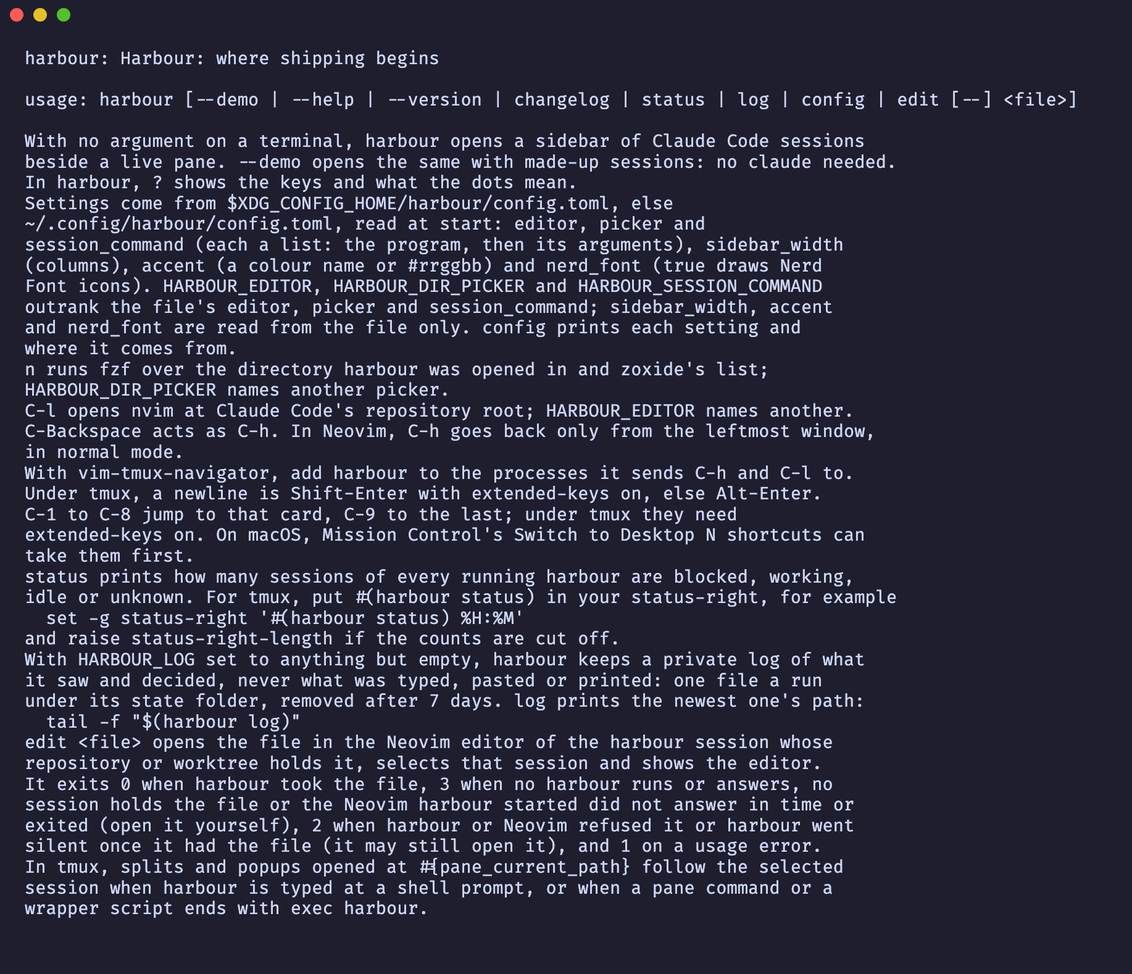
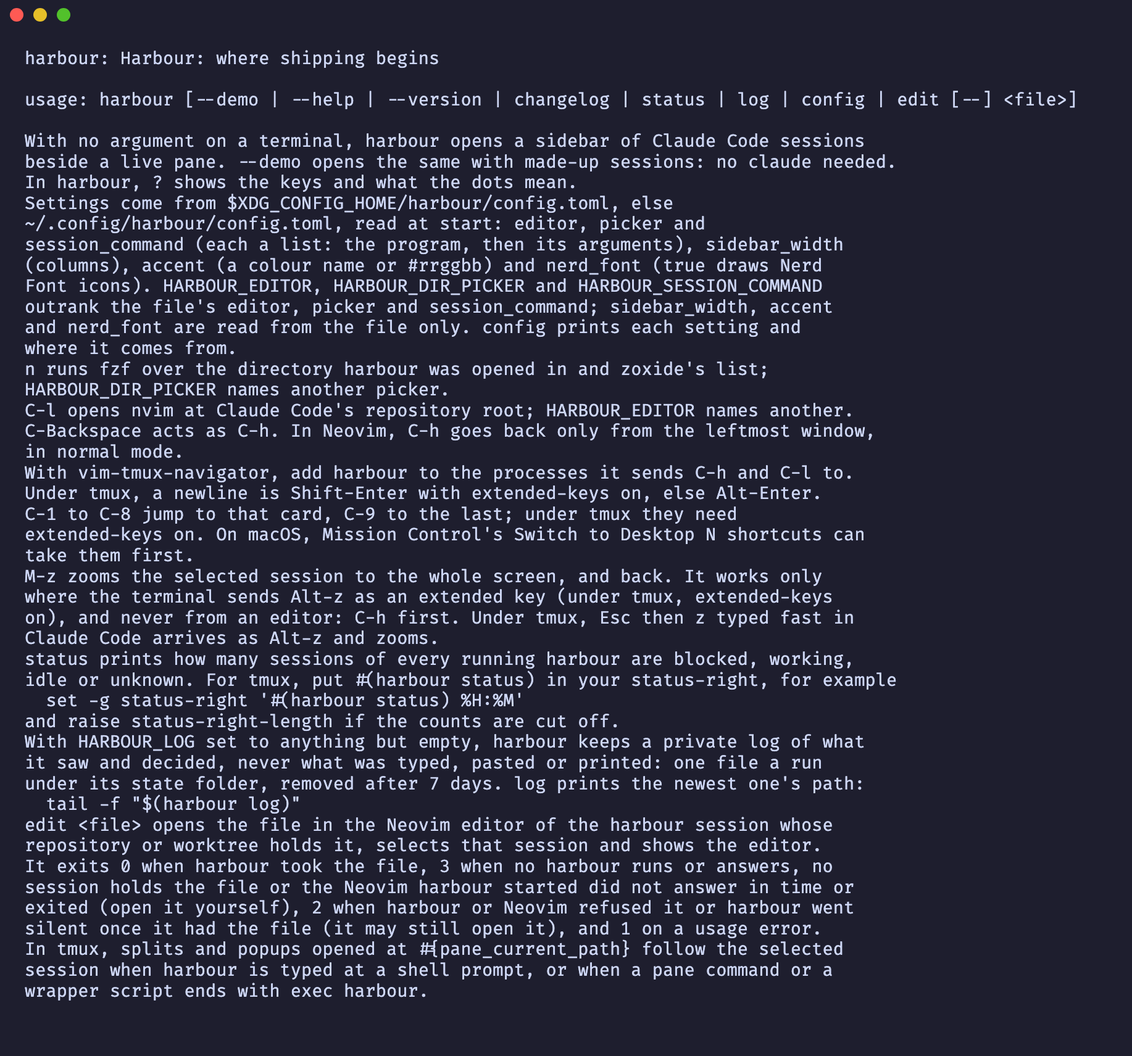
The help, the README, harbour --help, the zoom shot and the fragment for Alt-z

Changed region(s): [[0.0, 0.0311, 0.8391, 0.9626], [0.8702, 0.0932, 0.9324, 0.1242]]

diff --git a/tests/e2e/keys.rs b/tests/e2e/keys.rs
@@ -323,6 +323,52 @@ fn ctrl_m_ctrl_shift_h_and_ctrl_shift_l_act_as_enter_ctrl_h_and_ctrl_l_with_exte
     assert!(screen.contains("claude | raw-agent.sh: "), "{screen}");
 }
 
+#[test]
+#[ignore]
+fn alt_z_zooms_the_selected_session_with_extended_keys_on() {
+    let Some((_home, server)) = two_raw_agents("ext-xterm-zoom", "xterm") else {
+        return;
+    };
+
+    server.send_keys(&["M-z", "a"]);
+
+    let screen = server.wait_until("the zoomed pane", |screen| {
+        corners(screen) == 1 && screen.contains("read:a")
+    });
+    assert_eq!(corners(&screen), 1, "{screen}");
+    assert!(screen.contains("read:a"), "{screen}");
+}
+
+#[test]
+#[ignore]
+fn alt_z_zooms_the_selected_session_in_the_csi_u_form() {
+    let Some((_home, server)) = two_raw_agents("ext-csi-u-zoom", "csi-u") else {
+        return;
+    };
+
+    server.send_keys(&["M-z", "a"]);
+
+    let screen = server.wait_until("the zoomed pane", |screen| {
+        corners(screen) == 1 && screen.contains("read:a")
+    });
+    assert_eq!(corners(&screen), 1, "{screen}");
+    assert!(screen.contains("read:a"), "{screen}");
+}
+
+#[test]
+#[ignore]
+fn alt_z_reaches_the_session_as_escape_z_with_extended_keys_off() {
+    let Some((_home, server)) = focused_raw_agent("ext-off-alt-z", "off", "xterm") else {
+        return;
+    };
+
+    server.send_keys(&["M-z"]);
+
+    let screen = server.wait_for_screen("read:^z");
+    assert!(screen.contains("read:^z"), "{screen}");
+    assert_eq!(corners(&screen), 2, "{screen}");
+}
+
 fn two_raw_agents(name: &str, format: &str) -> Option<(TempDir, Server)> {
     let (home, server) = raw_harbour(name, "on", format, "")?;
     server.send_keys(&["n"]);
@@ -395,4 +441,14 @@ fn raw_harbour(name: &str, extended: &str, format: &str, asked: &str) -> Option<
     );
     server.wait_for_screen("press n to start one");
     Some((home, server))
+}
+
+fn corners(screen: &str) -> usize {
+    screen
+        .lines()
+        .next()
+        .unwrap_or_default()
+        .chars()
+        .filter(|c| matches!(c, '┌' | '┏'))
+        .count()
 }

diff --git a/tests/app/help.rs b/tests/app/help.rs
@@ -39,6 +39,19 @@ fn question_mark_shows_the_editor_keys() {
 }
 
 #[test]
+fn question_mark_shows_the_zoom_key() {
+    let mut screen = Screen::new(reading_agent());
+
+    screen.press('?');
+
+    let shown = screen.draw();
+    assert!(
+        shown.contains("M-z        zoom the session to the whole screen, or back"),
+        "{shown}"
+    );
+}
+
+#[test]
 fn question_mark_says_how_to_resume_and_forget_a_stopped_session() {
     let mut screen = Screen::new(reading_agent());
     screen.resize(80, 24);
@@ -107,13 +120,13 @@ fn the_whole_help_shows_on_a_20_row_terminal() {
 }
 
 #[test]
-fn the_help_leaves_four_rows_for_new_keys_on_a_20_row_terminal() {
+fn the_help_leaves_three_rows_for_new_keys_on_a_20_row_terminal() {
     let mut screen = Screen::new(reading_agent());
 
     screen.press('?');
 
     let shown = screen.draw();
-    assert_eq!(spare_rows(&shown), 4, "{shown}");
+    assert_eq!(spare_rows(&shown), 3, "{shown}");
 }
 
 #[test]

diff --git a/tests/cli.rs b/tests/cli.rs
@@ -368,6 +368,10 @@ Under tmux, a newline is Shift-Enter with extended-keys on, else Alt-Enter.
 C-1 to C-8 jump to that card, C-9 to the last; under tmux they need
 extended-keys on. On macOS, Mission Control's Switch to Desktop N shortcuts can
 take them first.
+M-z zooms the selected session to the whole screen, and back. It works only
+where the terminal sends Alt-z as an extended key (under tmux, extended-keys
+on), and never from an editor: C-h first. Under tmux, Esc then z typed fast in
+Claude Code arrives as Alt-z and zooms.
 status prints how many sessions of every running harbour are blocked, working,
 idle or unknown. For tmux, put #(harbour status) in your status-right, for example
   set -g status-right '#(harbour status) %H:%M'

diff --git a/src/main.rs b/src/main.rs
@@ -30,6 +30,10 @@ Under tmux, a newline is Shift-Enter with extended-keys on, else Alt-Enter.
 C-1 to C-8 jump to that card, C-9 to the last; under tmux they need
 extended-keys on. On macOS, Mission Control's Switch to Desktop N shortcuts can
 take them first.
+M-z zooms the selected session to the whole screen, and back. It works only
+where the terminal sends Alt-z as an extended key (under tmux, extended-keys
+on), and never from an editor: C-h first. Under tmux, Esc then z typed fast in
+Claude Code arrives as Alt-z and zooms.
 status prints how many sessions of every running harbour are blocked, working,
 idle or unknown. For tmux, put #(harbour status) in your status-right, for example
   set -g status-right '#(harbour status) %H:%M'

diff --git a/src/help.rs b/src/help.rs
@@ -7,13 +7,14 @@ pub const KEYS: &[(&str, &str)] = &[
     ),
     ("C-h", "focus the sidebar; from an editor, Claude Code"),
     ("C-1..C-9", "focus or resume that card; C-9 the last"),
+    ("M-z", "zoom the session to the whole screen, or back"),
     ("e", "show the session's next editor, one per directory"),
     (
         "x",
         "end the session and its editors, or forget it once it has ended",
     ),
     ("?", "show or hide the help"),
-    ("q", "quit, after a yes while a session or editor runs"),
+    ("q", "quit, after a yes while anything runs"),
 ];
 
 pub const REST: &str = "harbour --help has the rest.";

diff --git a/AGENTS.md b/AGENTS.md
@@ -55,13 +55,15 @@ src/app/draw.rs               what the app draws, after settling exited editors 
 src/app/handoff.rs            which session holds a file `harbour edit` names (a path inside a session's `root`, resolved through symlinks, never a stopped card's; the deepest root first, then the selected session, then the one the user last acted on: keys, paste or mouse sent to it, C-l, its start) and opening it: that session selected and its editor shown with the file, as C-l would show it; where each session works read again before an open, and that same root used for it; `none` to an ask and a refusal to an open while a question or the picker waits, `none` to an ask and a refusal to an open for an editor that is not Neovim, busy past the deadline, and when Neovim cannot start or take the file, a refusal leaving the screen as it was; a Neovim it started that stays silent until the deadline closed and the request untaken, and one that exits untaken at once
 src/app/logging.rs            what the app writes to the log: start and quit, a bound key by name (a key or paste forwarded only as `input to=<where> bytes=<n>`, the bytes sent, never its text; an unbound key the sidebar does not forward as `key name=other`), focus, selection, refusals, each session's and editor's start and exit, every `harbour edit` request and Neovim call, a frame of 100 ms or more, and the panics a session contained; nothing when the log is off
 src/app/jump.rs               `jump`: Ctrl-1 to Ctrl-8 select the card at that position and Ctrl-9 the last, from the sidebar or a pane (a session never gets them), then focus its pane or resume it as Enter does; nothing beyond the last card, nothing while a question, the help view or the picker is shown; they arrive only as extended keys, so a terminal without them sends what it sent before
+src/app/zoom.rs               zoom: Alt-z, only in an extended form and never from an editor (a legacy `ESC z` or an editor's Alt-z goes on to the session), from the sidebar or Claude Code on a running session shows its pane alone and focuses it, and again brings the sidebar back; each frame drops it once the pane loses focus or the session ends; the zoomed border: the session's headline (`src/zoom.rs`), the names, the counts at the right
 src/app/remember.rs           what the app does with remembered sessions: recalls them once as stopped cards, at most 100 by position, from one listing of every projects folder (a card whose transcript is gone is left out, its file forgotten once it is 30 days old), says on line 2 and in the pane why one cannot resume (`directory gone`, `open elsewhere` while a live pid's registry file or another harbour's reservation names its id), resumes one with `<command> --resume <id>` in its directory after checking both again and reserving the id for as long as it runs, keeps each session's id, directory, title and position once its transcript exists (again when its file went missing, once more when it exits and at quit), merges a stopped card into the session that resumed its conversation, forgets on `x` (never a file a session open elsewhere owns), clears its `gone` and `open elsewhere` messages on a new selection, the next attempt or once the card can resume, and adds `Conversations come back stopped.` to the quit question
-src/app/split.rs              how the sidebar and the pane share the terminal: two columns, from 60 columns, the sidebar a third or the configured width cut to half, the pane the rest; below that one side at a time, the pane while it has focus, else the sidebar
+src/app/split.rs              how the sidebar and the pane share the terminal: two columns, from 60 columns, the sidebar a third or the configured width cut to half, the pane the rest; below that one side at a time, the pane while it has focus, else the sidebar; zoomed, the pane alone
 src/handoff.rs                `harbour edit <file>` and its listener: the file made absolute (its folder resolved when the file does not exist yet, a dangling symlink followed to where it points, 4096 bytes at most), every harbour asked over a socket in a private (0700) `$XDG_STATE_HOME/harbour/edit/`, else `~/.local/state/harbour/edit/`, which of its sessions holds it, how deep its root lies, whether it is selected and when it was last used, and the first by that order told to open it; the listener binds `<pid>-<n>.sock` (0600), removes it when dropped, binds again within 5 s when it is gone, removes the sockets no process listens on, and, on a thread of its own that sleeps in `poll` until a connection, its check or harbour's exit wakes it, accepts, checks the peer and reads each request on a thread of its own (at most 16 in flight, the rest closed at once), keeping only a request from its own user that arrives within 100 ms and has not expired; it resolves the path again itself, answers `none` or a refusal when it does not resolve, and hands the app the rest over a channel with a deadline of its expiry, 5 s at most
 src/memory.rs                 the remembered sessions on disk: one `<sessionId>.json` per conversation under `$XDG_STATE_HOME/harbour/sessions/<configuration>/`, else `~/.local/state/harbour/sessions/<configuration>/`, one folder per Claude Code configuration (a stable hash of its resolved `projects/` path, symlinks followed), so a harbour never shows, resumes or prunes another configuration's conversations (0700 folder, 0600 files, written through a staged file and a rename, a staged file older than a minute swept); the directory stored as text, or as its bytes when it is not UTF-8; no file names another, so none deletes another; read leniently: a regular file only, never through a symlink, at most 64 KiB, `version` 1, an id of Claude Code's shape (a lowercase 8-4-4-4-12 hex UUID, so `--resume <id>` never reads it as an option) matching its name, an absolute directory, anything else skipped and left on disk, a file from a newer version never overwritten or removed; `reserve`: a private `<id>.<unique>.lock` held with a non-blocking lock by every running session with a remembered id (taken when the id is first known, the new one taken before the old one is released when it changes, tried again at each read while held elsewhere) and kept only while that file is still at its path, retried once when held, dead ones swept
 src/follow.rs                 where harbour works, so tmux's `#{pane_current_path}` follows the selected session: the `root` of the editor for its last seen directory, or where harbour was opened with no session or when that directory is gone or cannot be entered; checked at a frame when the selection or the directory changed, else every half second, and moved to only when it differs by path or by device and inode (a directory replaced in place is entered again); `temporary`, the temporary directory made absolute at start
 src/editor.rs                 an editor beside a session's Claude Code pane: the program it runs and the directory it belongs to, started with harbour's `TMUX` and `TMUX_PANE`, so a tmux command it runs targets harbour's pane, `root` (the repository root `repo::root` finds, the card's own walk, never walked up from a directory that is gone); Neovim listens on a socket in a private (0700) temporary directory removed with the editor, under `/tmp` when the temporary directory would make the socket path too long for macOS (103 bytes), and without one when that directory cannot be made, and says through it whether it has unsaved changes (`changes`: saved, unsaved, or unknown when it cannot be asked; a modified buffer counts when its `buftype` is empty or `acwrite`, a file the user would lose, never a terminal, prompt, `nofile` or `nowrite` buffer), and whether C-h stays in it (`wants_ctrl_h`: anything but mode `n` or `nt` with `blocking` false in the leftmost window); a session's editors end with it
 src/nvim.rs                   `mode`, `eval` and `edit`: one msgpack-RPC `nvim_get_mode`, `nvim_eval` or `nvim_cmd` (`edit` with the path as bytes and `magic` off, so `%`, `#`, `|` and spaces stay in the name) over that socket, the connect, the write and the read all bounded by one deadline, the reply matched by its request id (a notification before it is skipped, at most 1 MiB read), `None` for no answer before the deadline
+src/zoom.rs                   `info`, a pure function: the zoomed border's headline, the dot, title, `repository · branch` and time, fitted to a room (the place cut first, then the title; the time kept while the title has a column; the dot alone at 3 columns, nothing under)
 src/tabs.rs                   `strip`, a pure function: the pane border's `claude | <editor>: <directory>`, fitted by display width (the directory loses its start first, then the editor's name; nothing shows once not one column of the editor's name fits); `iconed`, the same with `nerd_font` on: the glyph of `src/icons.rs` and a space before `claude`, and before the editor's name when it is Neovim, the directory going first, then both glyphs together, then the rest as `strip` fits it, so a glyph never shows without its whole name
 src/icons.rs                  the Nerd Font glyphs harbour draws with `nerd_font` on: `md-creation` (U+F0674) for Claude Code, `custom-neovim` (U+E6AE) for Neovim, `oct-repo` (U+F401), `oct-git_branch` (U+F418), `oct-git_pull_request` (U+F407) and `cod-sparkle` (U+EC10) for a card's repository, branch, pull request and subagents, each one column wide
 src/session.rs                a session: a command in a PTY, refused as `Not a directory: <path>` when its directory is not one, started without `TMUX` and `TMUX_PANE` (a Claude Code session and the picker belong to no tmux pane) unless started as an editor, its output parsed into a screen that renders as a widget painting no cursor of its own, its terminal queries answered, what an editor's or the picker's program asked for in keys (`keyboard`, its kitty query answered; a Claude Code session's requests ignored and its kitty query left unanswered, so it always gets the legacy keys; forgotten at a terminal reset, `ESC c`, and when the program exits), the cursor shape its program last asked for (`ESC [ <n> SP q`, 0 to 6, a larger value ignored) and where its cursor lies in the area it is drawn in (none when hidden or outside it, a cursor waiting after the last column on that column), its exit status, its screen never under 2 rows or 2 columns (vt100 panics below that); every call into vt100 contained, so a panic gives that session a fresh screen with the modes, the keys and the cursor shape its program had turned on and a repaint instead of taking harbour down, and the panic hook stays silent for it; writes go through a writer thread so a child that does not read never blocks the interface; ending it (or dropping it) hangs up its whole process group, then kills it, only while the child is unreaped; quitting hangs up every session first and waits once
@@ -73,11 +75,11 @@ src/transcript.rs             a session's transcript (`<CLAUDE_CONFIG_DIR or ~/.
 src/card.rs                   a session's card in the sidebar: three lines cut by `src/text.rs`, line 3 with `with_icons` (`nerd_font` on) a glyph and a space before each fact in place of the dots and the word `subagents`, and the Neovim glyph and a space last while the session has an editor open and the editor is Neovim (neither the subagents nor the editor on an ended card), cut from its end as without icons, a glyph that would keep no column of its text going too, line 2 the last prompt dimmed while working or idle (empty on the selected card), else what it waits for, `exited` or why it cannot resume, on every card; the time in its state at the right of line 1 (`<1m`, `3m`, `2h`, `4d`; for an exited session, since harbour saw the exit; none without a time), kept while the title has a column; the accent's bar (cyan by default, left out with no inner column) and bold down the selected card, a blank line between cards, the scroll that keeps the selected card whole and moves only when it would leave the view
 src/text.rs                   every cut of text harbour draws: measured in the cells ratatui fills for each grapheme (an emoji with a variation selector, a joined sequence or a flag counts whole, a halfwidth sound mark too), cut with `…` or wrapped by those columns (between words where a word fits), never wider than the room given; cleaned of control characters, bidi marks, U+061C, U+200B and a joiner that joins nothing, folded to one line and kept to 512 characters
 src/summary.rs                the counts a running harbour publishes for `harbour status` (one publication under a name of its own, pid, time and counter: `<name>.counts` beside a `<name>.lock` it holds, under `$XDG_STATE_HOME/harbour/status/`, else `~/.local/state/harbour/status/`, nowhere when neither is absolute, private, removed on quit, never waiting for a lock; a failed write or a missing file drops the whole publication, and a fresh one is made at most every `RETRY`, 5 s; making one removes every dead publication, a regular `<digits>-<digits>-<digits>.lock` other than its own that it can open for writing and no one holds, with its `.counts` and `.tmp`) and the reader that adds up the regular `.counts` files of that naming whose lock is still held, never following a symlink
-src/help.rs                   what the help view shows besides the legend: `KEYS`, which the README key table mirrors, and `REST`, its last line, pointing to `harbour --help`, which carries the notes (`HARBOUR_DIR_PICKER`, `HARBOUR_EDITOR`, C-Backspace arriving as C-h and Neovim's C-h rule, the tmux pattern, the newline under tmux, `HARBOUR_LOG`)
+src/help.rs                   what the help view shows besides the legend: `KEYS`, which the README key table mirrors, and `REST`, its last line, pointing to `harbour --help`, which carries the notes (`HARBOUR_DIR_PICKER`, `HARBOUR_EDITOR`, C-Backspace arriving as C-h and Neovim's C-h rule, the tmux pattern, the newline under tmux, Alt-z's rule, `HARBOUR_LOG`)
 src/log.rs                    the log `HARBOUR_LOG` (anything but empty) turns on: one `<pid>.log` a run (0600) in a private (0700) `$XDG_STATE_HOME/harbour/log/`, else `~/.local/state/harbour/log/`, none when neither is absolute; each line stamped in UTC to the millisecond, built only when the log is on, and handed to a thread of its own over a queue of 4096 that drops what does not fit, so a stalled disk never delays a key or a frame, and `finish`, at quit, waits up to 500 ms for what is queued; never through a symlink, at the file or the folder; at start, removes the `<digits>.log` regular files older than 7 days whose pid is not alive; `newest`, what `harbour log` prints
 src/cursor.rs                 `Shape`: the cursor shape last sent to the terminal, starting at the default (0) and shared by its clones (the panic hook holds one), `ESC [ <n> SP q` written only when the shape asked for differs, and `ESC [ 0 SP q` on leaving only when the last one sent was not the default, the default then recorded as sent
 src/keys.rs                   the bytes a terminal sends for a key, which a session receives: the legacy encoding, and `encode_as`, the form a program asked for: xterm's `modifyOtherKeys` level 1 (a Ctrl key with a control byte as that byte, Alt alone and unmodified keys legacy, every other modified key as `ESC [ 27 ; mod ; code ~`) or level 2 (every modified key in that form), both with F13 to F24 as Shift-F1 to F12 and F25 to F35 unmodified as Ctrl-F1 to F11, or kitty's disambiguation (Esc and every Ctrl or Alt key as `ESC [ code ; mod u`, a modified Enter, Tab or Backspace too, F3 as `ESC [ 13 ~`, F13 to F35 from 57376); `Asked`, what a program asked for: the `modifyOtherKeys` level (off again at `ESC [ > 4 n`) and the kitty flags (disambiguation only) with their push, pop (16 deep), set and query, answered with the flags held, the kitty form winning while its flag is set
-src/input.rs                  what harbour reads from its terminal: the keys, pastes and mouse reports crossterm reads, read the same way, plus the xterm form of a modified key (`ESC [ 27 ; mod ; code ~`) beside the csi-u form; the bytes 0x1c to 0x1f read as Ctrl with `\`, `]`, `^` and `_`; 1 KiB a read, waiting at most the timeout it is given, then reading on without waiting while a read came back full or a sequence is unfinished, so a large paste is one call; outside a paste, a pending sequence is dropped when a new ESC arrives or once it holds 64 bytes, and a private-mode reply (`ESC [ ?`) ends at its final byte
+src/input.rs                  what harbour reads from its terminal: the keys, pastes and mouse reports crossterm reads, read the same way, plus the xterm form of a modified key (`ESC [ 27 ; mod ; code ~`) beside the csi-u form; the bytes 0x1c to 0x1f read as Ctrl with `\`, `]`, `^` and `_`; 1 KiB a read, waiting at most the timeout it is given, then reading on without waiting while a read came back full or a sequence is unfinished, so a large paste is one call; outside a paste, a pending sequence is dropped when a new ESC arrives or once it holds 64 bytes, and a private-mode reply (`ESC [ ?`) ends at its final byte; a key read after an ESC prefix carries `ESCAPED` in its state, the extended forms do not
 src/mouse.rs                  `route`, a pure function: a gesture belongs to where its button went down and to the session shown then, and ends when another session is shown, and the selected session gets only what its mouse mode asked for (`?9` presses, `?1000` presses, releases and the wheel, `?1002` drags too, `?1003` moves too), with Shift, Alt and Ctrl, in its encoding (SGR, UTF-8 or the legacy bytes), clamped to the pane; an empty pane forwards nothing and ends the gesture
 src/changelog.rs              the bundled CHANGELOG.md and the rules a release entry must meet
 CHANGELOG.md                  only its `# Changelog` heading on `main`; each release commit writes its sections
@@ -109,7 +111,7 @@ scripts/homebrew-formula.sh   prints the tap formula for a released version
 scripts/formula-version.sh    the `tap` job's decision; never a version below the formula's
 scripts/stable-version.sh     the `stable-build` and `stable` jobs' decision, asked by both: the release the `stable` branch moves to, never below the version it holds
 scripts/sweep-report.sh       `[<first phase>]`: the sweep's data from `plans/`, as Markdown; counts and groups, judges nothing
-scripts/screenshots.sh        renders docs/details.png from `harbour --demo` and docs/help.png from `harbour --help`, plus one `shoot` per extra view (keys, pane, question, quit, ended (the demo with its blocked session ended, a count gone from the title), editor, narrow, picker, accent (the interface without `--demo`, through a config file written into the scratch `HOME` and removed after it), icons (the same with `nerd_font = true` and an editor script named `nvim`, its session a script that writes a registry file and a transcript naming a pull request and two running subagents in a scratch repository on a branch, the border's and the card's glyphs shown); truecolor.py converts ANSI)
+scripts/screenshots.sh        renders docs/details.png from `harbour --demo` and docs/help.png from `harbour --help`, plus one `shoot` per extra view (keys, pane, question, quit, ended (the demo with its blocked session ended, a count gone from the title), editor, narrow, zoom (the demo after M-z, with tmux's `extended-keys` on for that shot alone), picker, accent (the interface without `--demo`, through a config file written into the scratch `HOME` and removed after it), icons (the same with `nerd_font = true` and an editor script named `nvim`, its session a script that writes a registry file and a transcript naming a pull request and two running subagents in a scratch repository on a branch, the border's and the card's glyphs shown); truecolor.py converts ANSI)
 scripts/sweep-issue.sh        the `issue` job of `sweep.yml`: opens "Sweep due before phase N" with the report once the next phase is a multiple of 5, never twice
 docs/                         the screenshots `scripts/screenshots.sh` writes (see "Documentation rule")
 changes/                      one fragment per pull request that feeds the binary (`kind:` and the changelog bullets); add-only, see Releasing
@@ -123,6 +125,7 @@ tests/           outside-in: `tests/cli.rs` runs the real binary;
                  `tests/session/` (`keyboard.rs` what a program asked for in keys) and `tests/app/` run sessions in process, as `/bin/sh -c` scripts;
                  `tests/edit.rs` runs `harbour edit` against listeners of `tests/handoff.rs`'s kind, which a test answers itself; `tests/app/handoff.rs` hands the app requests and stands in a socket for Neovim; `tests/app/nearest.rs` covers which holder gets the file and what moves its last use; `tests/e2e/edit.rs` runs `harbour edit` against harbour, and `tests/e2e/neovim.rs` holds four smoke tests against a real clean Neovim; `tests/app/real_neovim.rs` runs that Neovim's TUI in a harbour session and checks `mode`, `eval`, `edit`, `changes`, `wants_ctrl_h` and `open` against it; `tests/idle.rs` (Linux only) counts the listener thread's wake-ups while idle;
                  `tests/app/jumping.rs` covers Ctrl-1 to Ctrl-9 in process, `tests/e2e/keys.rs` what tmux sends for them with extended keys on and off;
+                 `tests/app/zoom.rs` covers Alt-z in process, `tests/app/zoom_border.rs` the zoomed border, `tests/zoom.rs` the table of how its headline fits a room;
                  `tests/app/moving.rs` hands the app a recording move, never the real one; `tests/e2e/moving.rs` reads `#{pane_current_path}` of a harbour started with `Server::exec`;
                  `tests/tabs.rs` is the table of how the pane border's names fit a width, with and without icons;
                  `tests/text.rs` covers measuring, cutting, wrapping and cleaning text, `tests/card.rs` a card's lines, `tests/repo.rs` reading a repository and branch from scratch `.git` layouts, `tests/transcript.rs` reading a transcript, `tests/memory/` every file state of the remembered sessions (`reserving.rs` the locks and the sweep, `places.rs` the directory bytes and the configurations);

diff --git a/plans/phase-25-zoom.md b/plans/phase-25-zoom.md
@@ -3,7 +3,7 @@
 Issue #36. Alt-z hides the sidebar and gives the selected session the whole screen; the pane's
 top border then carries what the sidebar showed about it (its dot, title, `repository · branch`
 and time) and the counts. Phase 25 is a multiple of 5, so it opens with the sweep of phases 20
-to 23 (`### Sweep` under `## Outcome`).
+to 24 (`### Sweep` under `## Outcome`).
 
 ## Verified facts
 
@@ -68,8 +68,8 @@ to 23 (`### Sweep` under `## Outcome`).
   - left: the dot, the title, `repository · branch` and the time in its state, then the names
     (`claude | <editor>: <directory>`, with icons under `nerd_font`) as today;
   - right: the counts, by the sidebar title's rule (`state::title`, counts above zero);
-  - fitted by priority: the counts first, then the names (by the rules of `src/tabs.rs`), then
-    the session info in what is left: the time stays while the title has a column, as on the
+  - fitted by priority: the counts first, then the names (by the rules of `src/tabs.rs`) in
+    what the counts leave, then the session info in what the names leave: the time stays while the title has a column, as on the
     card; the title and place are cut by `text::fit`; the dot alone needs 3 columns
     (` ● `), under that the info goes.
 - The help gets one row (`M-z`), the README key table with it, and the headroom test drops to 3.
@@ -81,8 +81,8 @@ to 23 (`### Sweep` under `## Outcome`).
 | State | What shows |
 | --- | --- |
 | Zoomed, a session running | the pane alone on the whole screen, its top border: dot, title, `repository · branch`, time, the names, the counts at the right |
-| Zoomed, terminal too narrow for the whole border | the counts stay; the session info is cut first (title, then place, the time while the title keeps a column), then the names by `tabs.rs`'s rules |
-| Zoomed, the narrowest width the border still fits | measured in the tests: the counts and the dot with one column of title; under that the info goes, then the names |
+| Zoomed, terminal too narrow for the whole border | the counts stay; the session info is cut first (the place is cut, then dropped, then the title is cut, the time kept while the title keeps a column), then the names by `tabs.rs`'s rules |
+| Zoomed, the narrowest width the border still fits | 11 columns: `┏ ● …  ●1 ┓`, the short counts and the dot with one column of title; under that the info goes, then the names |
 | Zoomed, a CJK title and branch | cut by display width (`text::fit`), never a half character, never wider than the border |
 | Zoomed, terminal under 60 columns | today's narrow mode with the pane shown, plus the zoomed border |
 | Alt-z with no session or on a stopped card | nothing happens |
@@ -128,19 +128,21 @@ keys sends the legacy form, so Alt-z goes to the session; nothing else is read.
 
 ### Sweep
 
-Range: phases 20 to 23. `scripts/sweep-report.sh` starts after phase 20, the last `### Sweep`,
-so it reports phases 21 to 23; phase 20's own `## Outcome` and `## Hurdles` were read by hand.
-All four are on `main`; phase 24 was still being built. The report counted 9 hurdles for phases
-21 to 23 (`test-seam` 5, `api-shape`, `design`, `process` and `review-loop` 1 each) and phase
-20 added 1 (`test-seam`); 4 of the 10 went `→ none`. Ready, merged and released of phase 22
-were read from GitHub (phase 23's were already written). The owner decided in advance that every
+Range: phases 20 to 24. `scripts/sweep-report.sh` starts after phase 20, the last `### Sweep`,
+so it reports phases 21 to 24; phase 20's own `## Outcome` and `## Hurdles` were read by hand.
+Phase 24 merged while this phase was being built and was taken in with a merge of `main`. The
+report counted 9 hurdles for phases 21 to 23 (`test-seam` 5, `api-shape`, `design`, `process`
+and `review-loop` 1 each), phase 24 added 3 (`test-seam`, `process`, `review-loop`) and phase
+20 added 1 (`test-seam`); 6 of the 13 went `→ none`. Ready, merged and released of phase 24
+were read from GitHub (phase 22's were written by phase 24). The owner decided in advance that every
 finding becomes a proposed issue or is declined, no rule and no backlog line is applied, and
 nobody is asked; the orchestrator files the issues.
 
-- A test that passed before the change existed, in all four phases: phase 20's three cursor
+- A test that passed before the change existed, in all five phases: phase 20's three cursor
   tests passed whatever their rule did (the sidebar already hid the cursor), phase 21's width
   test asked for a third, the default, phase 22's out-of-range key drew nothing either way, phase
-  23's off path did not change. Each is a test of an absence or of a default; two were caught by
+  23's off path did not change, phase 24's cut, CJK and ended-card tests passed against the finished join, and this phase's
+  leaving-zoom and `ESC z` tests were green first too. Each is a test of an absence or of a default; two were caught by
   review, not by the red run → proposed issue.
 - A helper shipped before its first caller and stopped by the dead-code gate: phase 23 (`→ none`)
   and, in the last range, phases 17 and 19. Twice `→ none` across two sweeps → proposed issue.
@@ -156,15 +158,44 @@ nobody is asked; the orchestrator files the issues.
   wait every other test already makes; load-sensitive tests are #87.
 - Phase 21's tmux colour form (`38;5;N`) → declined: a fact of tmux's capture, fixed where it
   arose.
+- Phase 24's edit of `scripts/screenshots.sh` while a ship ran, which `git add -A` would have
+  taken into that commit (`→ none`, once) → declined: one-off, kept out by hand that time.
+- Phase 24's cut that measured a part's first grapheme apart from the joined line, found in
+  review → declined: one-off, fixed in code in that round.
 
-Metrics (from `plans/metrics.md`): review rounds 1, 2, 2, 1 for phases 20 to 23; start to
-release 30 min 47 s, 1 h 29 min 41 s, 1 h 34 min 18 s and 42 min 7 s. The Claude reviewer per
-round runs from 103532 to 169182: phase 21's two rounds (157086, 169182) sit above the last
-sweep's top of 149335, phases 22 and 23 are back at 115281 to 124912; one phase, no trend.
-Builder notices: 1, 2, 2 and 1 per phase, each between 90614 and 164528, the last ship of each
-unknown. The orchestrator's context grew from 521726 (phase 20's start) to 633470 (phase 23's
-end), in one session shared by every phase of the range and a fix branch, so no two rows
-compare. Process drift: none beyond the missing sweep issue; every phase had a worktree, a
+Metrics (from `plans/metrics.md`): review rounds 1, 2, 2, 1, 1 for phases 20 to 24; start to
+release 30 min 47 s, 1 h 29 min 41 s, 1 h 34 min 18 s, 42 min 7 s and 47 min 41 s. The Claude
+reviewer per round runs from 103532 to 169182: phase 21's two rounds (157086, 169182) sit above
+the last sweep's top of 149335, phases 22 to 24 are back at 115281 to 124912; one phase, no
+trend. Builder notices: 1, 2, 2, 1 and 1 per phase, each between 90614 and 164528, the last ship
+of each unknown. The orchestrator's context grew from 521726 (phase 20's start) to 670656
+(phase 24's end), in one session shared by every phase of the range and a fix branch, so no two
+rows compare. Process drift: none beyond the missing sweep issue; every phase had a worktree, a
 review and a metrics row.
 
+### Facts and decisions
+
+- Alt-z reaches harbour as `CSI 27;3;122~` (tmux `extended-keys on`, format xterm) or
+  `CSI 122;3u` (format csi-u), and as `ESC z` with `extended-keys off`, captured in tmux 3.7c
+  (Verified facts). `tests/e2e/keys.rs` pins all three through a scratch tmux server: both
+  extended forms zoom and the session reads only the next key; `ESC z` reaches the session as
+  `^z` after an escape and zooms nothing.
+- The reader marks a key read after an ESC prefix with `input::ESCAPED`, a key state bit of its
+  own (`0x80`), so the app takes only the extended form.
+- The zoomed border lives in `src/zoom.rs` (`info`, the session's part) and `src/app/zoom.rs`
+  (the counts, the names and the headline from the app's facts). The place is cut first, then
+  dropped once fewer than 2 columns are left after the title, then the title is cut; the time
+  stays while the title keeps a column. The narrowest border measured is 11 columns,
+  `┏ ● …  ●1 ┓`, the counts in their short form.
+- The help gained the `M-z` row and lost a line in the narrow layout; the `q` row was shortened
+  to "quit, after a yes while anything runs" (it said "while a session or editor runs" and
+  wrapped at 59 to 60 columns), the cheapest row to shorten without losing what it says. The
+  headroom test now asserts 3.
+- `scripts/screenshots.sh` turns on `extended-keys` for the `zoom` shot alone, so `send-keys M-z`
+  arrives as the extended Alt-z, and turns it off after it, so the other shots are as before.
+
 ## Hurdles
+
+- `test-seam` The leaving-zoom border test and the `ESC z` end-to-end test passed on their first run, being tests of an absence; each was shown red by breaking the code → none
+- `tooling` The tmux socket path under the scratchpad was too long for a Unix socket, so the byte capture ran with `TMUX_TMPDIR` a short folder under `/tmp` → none
+- `process` Phase 24 merged while this phase was being built and was taken in with a merge of `main`, its sweep and metrics rows included → none

diff --git a/plans/metrics.md b/plans/metrics.md
@@ -46,5 +46,5 @@ costs context.
 | 21 | #90 | 2026-11-21 06:23:02Z | 06:37:56Z | 07:36Z | 07:50:06Z | 07:50:24Z | 07:52:43Z (v0.17.0) | 1 h 29 min 41 s | 2 | measured, `subagent_tokens` of each completion notice, not a running total: 90614, 161974; the notice of the last ship is not known when this row is written | measured, `subagent_tokens` of the `/code-review` skill, one per round: round 1: 157086; round 2: 169182 | none | context 557144 at start, 604310 at the clean review, measured from its transcript, no compaction between the two; tokens unknown | 1 h 13 min from build start (06:23Z) to the end of the clean review round. The orchestrator session was shared with a fix branch (#79) and phase 22 built in parallel. The notice of the last ship is not known when this row is written. Ready, merged and released were written by phase 23, read from GitHub; start → end runs to the v0.17.0 release. |
 | 22 | #91 | 2026-11-21 07:13:32Z | 07:30:21Z | 08:24Z | 08:45:23Z | 08:45:37Z | 08:47:50Z (v0.19.0) | 1 h 34 min 18 s | 2 | measured, `subagent_tokens` of each completion notice, not a running total: 127667, 92821; the notice of the last ship is not known when this row is written | measured, `subagent_tokens` of the `/code-review` skill, one per round: round 1: 115281; round 2: 124912 | none | context 591253 at start, 639666 at the clean review, measured from its transcript, no compaction between the two; tokens unknown | 1 h 11 min from build start (07:13Z) to the end of the clean review round. The orchestrator session was shared with phases 21 and 23 built in parallel. The notice of the last ship is not known when this row is written. Ready, merged and released were written by phase 24, read from GitHub; start → end runs to the v0.19.0 release. |
 | 23 | #92 | 2026-11-21 07:51:14Z | 08:01:44Z | 08:21Z | 08:31:27Z | 08:31:44Z | 08:33:21Z (v0.18.0) | 42 min 7 s | 1 | measured, `subagent_tokens` of the completion notice: 126230; the notice of the last ship is not known when this row is written | measured, `subagent_tokens` of the `/code-review` skill, one per round: round 1: 116520 | none | context 620042 at start, 633470 at the clean review, measured from its transcript, no compaction between the two; tokens unknown | 30 min from build start (07:51Z) to the end of the clean review round. The orchestrator session was shared with phase 22 (#91), built in parallel, which has its own row. The notice of the last ship is not known when this row is written. Ready, merged and released were written by phase 22, read from GitHub; start → end runs to the v0.18.0 release. |
-| 24 | #93 | 2026-11-21 08:32:31Z | 08:36:20Z | 09:05Z | | | | | 1 | measured, `subagent_tokens` of the completion notice: 111599; the notice of the last ship is not known when this row is written | measured, `subagent_tokens` of the `/code-review` skill, one per round: round 1: 116647 | none | context 652205 at start, 670656 at the clean review, measured from its transcript, no compaction between the two; tokens unknown | 33 min from build start (08:32Z) to the end of the clean review round. The orchestrator session was shared with phases 22 and 25 built in parallel. The notice of the last ship is not known when this row is written. Phase 22's ready, merged and released times were written by phase 24, read from GitHub. |
+| 24 | #93 | 2026-11-21 08:32:31Z | 08:36:20Z | 09:05Z | 09:18:21Z | 09:18:37Z | 09:20:12Z (v0.20.0) | 47 min 41 s | 1 | measured, `subagent_tokens` of the completion notice: 111599; the notice of the last ship is not known when this row is written | measured, `subagent_tokens` of the `/code-review` skill, one per round: round 1: 116647 | none | context 652205 at start, 670656 at the clean review, measured from its transcript, no compaction between the two; tokens unknown | 33 min from build start (08:32Z) to the end of the clean review round. The orchestrator session was shared with phases 22 and 25 built in parallel. The notice of the last ship is not known when this row is written. Phase 22's ready, merged and released times were written by phase 24, read from GitHub. Ready, merged and released were written by phase 25, read from GitHub; start → end runs to the v0.20.0 release. |
 | 25 | #94 | 2026-11-21 08:46:41Z | 09:01:00Z | | | | | | | | | none | | |

diff --git a/README.md b/README.md
@@ -45,10 +45,11 @@ harbour config      # the settings file's path and where each setting comes from
 | `C-l/Enter` | focus the pane or resume; from Claude Code, C-l opens its editor |
 | `C-h` | focus the sidebar; from an editor, Claude Code |
 | `C-1..C-9` | focus or resume that card; C-9 the last |
+| `M-z` | zoom the session to the whole screen, or back |
 | `e` | show the session's next editor, one per directory |
 | `x` | end the session and its editors, or forget it once it has ended |
 | `?` | show or hide the help |
-| `q` | quit, after a yes while a session or editor runs |
+| `q` | quit, after a yes while anything runs |
 
 `n` picks the directory with fzf, from the directory harbour was opened in and the ones
 zoxide ranks; `HARBOUR_DIR_PICKER` names another picker. Without fzf, sessions start in the

diff --git a/changes/phase-25-zoom.md b/changes/phase-25-zoom.md
@@ -1,0 +1,11 @@
+kind: feat
+
+- Alt-z zooms the selected session to the whole screen, and back. The sidebar hides and the
+  pane's top border shows the session's dot, title, repository and branch, and time, then the
+  names, with the counts at the right. C-h from Claude Code ends the zoom, and C-1 to C-9 jump
+  to another session still zoomed.
+- Alt-z zooms only where the terminal sends it as an extended key (under tmux,
+  `extended-keys on`), and never from an editor: C-h first. Under tmux, Esc then z typed fast in Claude Code
+  arrives as Alt-z and zooms.
+- The help says `q` quits "after a yes while anything runs", a shorter line that leaves room for
+  the new key.
